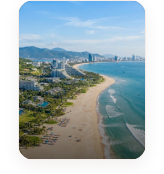
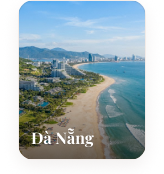
them giao dien

Changed region(s): [[0.1829, 0.7184, 0.5793, 0.8621]]

diff --git a/Quanlyvadatphonghomestay/TrangChu.xaml b/Quanlyvadatphonghomestay/TrangChu.xaml
@@ -4,14 +4,14 @@
              xmlns:local="clr-namespace:Quanlyvadatphonghomestay"
              x:Class="Quanlyvadatphonghomestay.TrangChu"
              NavigationPage.HasNavigationBar="False"
-             BackgroundColor="#BFA992">
+             BackgroundColor="#D6C4B0">
 
     <Grid RowDefinitions="Auto,*,Auto">
 
         <!-- HEADER -->
         <Border
             Grid.Row="0"
-            BackgroundColor="#D6C4B0"
+            BackgroundColor="#BFA992"
             Stroke="#52361E"
             StrokeThickness="1.5"
             Padding="18,12">
@@ -139,7 +139,7 @@
 
                             <Label
                                 Text="Những điểm đến thư giãn tuyệt vời"
-                                FontSize="11"
+                                FontSize="15"
                                 TextColor="#685B4F"/>
                         </VerticalStackLayout>
 
@@ -153,29 +153,35 @@
 
                     <CollectionView
                         ItemsSource="{Binding Locations}"
-                        HeightRequest="120"
-                        SelectionMode="None">
-
+                        HeightRequest="200"
+                        SelectionMode="None"
+                        HorizontalOptions="Fill"
+                   >
                         <CollectionView.ItemsLayout>
                             <LinearItemsLayout
                                 Orientation="Horizontal"
-                                ItemSpacing="12"/>
+                                ItemSpacing="15"/>
                         </CollectionView.ItemsLayout>
 
                         <CollectionView.ItemTemplate>
                             <DataTemplate>
                                 <Border
-                                    WidthRequest="120"
-                                    HeightRequest="120"
-                                    Stroke="#5D4037"
+                                    WidthRequest="150"
+                                    HeightRequest="190"
+                                    Padding="0"
+                                    Stroke="#D6C4B0"
                                     StrokeThickness="1.5"
-                                    StrokeShape="RoundRectangle 16">
+                                    StrokeShape="RoundRectangle 16"
+                                    >
 
                                     <Image
                                         Source="{Binding ImageUrl}"
                                         Aspect="AspectFill"
                                         HorizontalOptions="Fill"
-                                        VerticalOptions="Fill"/>
+                                        VerticalOptions="Fill"
+                                        
+                                     >
+</Image>
                                 </Border>
                             </DataTemplate>
                         </CollectionView.ItemTemplate>
@@ -359,7 +365,7 @@
         <!-- BOTTOM NAV -->
         <Border
             Grid.Row="2"
-            BackgroundColor="#D6C4B0"
+            BackgroundColor="#BFA992"
             Stroke="#52361E"
             StrokeThickness="1.5"
             Padding="10,8,10,18"

diff --git a/Quanlyvadatphonghomestay/Components/HomestayCard.xaml b/Quanlyvadatphonghomestay/Components/HomestayCard.xaml
@@ -1,0 +1,84 @@
+<?xml version="1.0" encoding="utf-8" ?>
+<ContentView xmlns="http://schemas.microsoft.com/dotnet/2021/maui"
+             xmlns:x="http://schemas.microsoft.com/winfx/2009/xaml"
+             x:Class="Quanlyvadatphonghomestay.Components.HomestayCard">
+    <Border
+        WidthRequest="280"
+        BackgroundColor="#FFFDFC"
+        Stroke="#C89F72"
+        StrokeThickness="1"
+        StrokeShape="RoundRectangle 18">
+
+        <VerticalStackLayout>
+
+            <!-- Ảnh -->
+            <Border
+                HeightRequest="170"
+                Padding="0"
+                StrokeThickness="0"
+                StrokeShape="RoundRectangle 18,18,0,0">
+
+                <Image
+                    Source="{Binding ImageUrl}"
+                    Aspect="AspectFill"
+                    HorizontalOptions="Fill"
+                    VerticalOptions="Fill"/>
+            </Border>
+
+
+            <!-- Nội dung -->
+            <VerticalStackLayout
+                Padding="14"
+                Spacing="8">
+
+                <!-- Tên -->
+                <Label
+                    Text="{Binding Name}"
+                    FontSize="17"
+                    FontAttributes="Bold"
+                    TextColor="#3E3028"
+                    LineBreakMode="TailTruncation"/>
+
+                <!-- Địa chỉ -->
+                <Label
+                    Text="{Binding Address}"
+                    FontSize="12"
+                    TextColor="#8A7A70"
+                    LineBreakMode="TailTruncation"/>
+
+                <!-- Mô tả -->
+                <Label
+                    Text="{Binding Description}"
+                    FontSize="11"
+                    TextColor="#8A7A70"
+                    MaxLines="2"
+                    LineBreakMode="TailTruncation"/>
+
+                <BoxView
+                    HeightRequest="1"
+                    Color="#E6D9CC"/>
+
+                <!-- Giá -->
+                <Grid ColumnDefinitions="*,Auto">
+
+                    <Label
+                        Text="{Binding Price, StringFormat='Giá từ {0:N0}₫ / đêm'}"
+                        FontSize="13"
+                        FontAttributes="Bold"
+                        TextColor="#6F452C"/>
+
+                    <Label
+                        Grid.Column="1"
+                        Text="Đặt ngay →"
+                        FontSize="11"
+                        FontAttributes="Bold"
+                        TextColor="#8B5E3C"/>
+
+                </Grid>
+
+            </VerticalStackLayout>
+
+        </VerticalStackLayout>
+
+    </Border>
+</ContentView>

diff --git a/Quanlyvadatphonghomestay/ThongTinCaNhan.xaml b/Quanlyvadatphonghomestay/ThongTinCaNhan.xaml
@@ -1,0 +1,12 @@
+<?xml version="1.0" encoding="utf-8" ?>
+<ContentPage xmlns="http://schemas.microsoft.com/dotnet/2021/maui"
+             xmlns:x="http://schemas.microsoft.com/winfx/2009/xaml"
+             x:Class="Quanlyvadatphonghomestay.ThongTinCaNhan"
+             Title="ThongTinCaNhan">
+    <VerticalStackLayout>
+        <Label 
+            Text="Welcome to .NET MAUI!"
+            VerticalOptions="Center" 
+            HorizontalOptions="Center" />
+    </VerticalStackLayout>
+</ContentPage>

diff --git a/Quanlyvadatphonghomestay/XemTimkiem.xaml b/Quanlyvadatphonghomestay/XemTimkiem.xaml
@@ -1,0 +1,12 @@
+<?xml version="1.0" encoding="utf-8" ?>
+<ContentPage xmlns="http://schemas.microsoft.com/dotnet/2021/maui"
+             xmlns:x="http://schemas.microsoft.com/winfx/2009/xaml"
+             x:Class="Quanlyvadatphonghomestay.XemTimkiem"
+             Title="XemTimkiem">
+    <VerticalStackLayout>
+        <Label 
+            Text="Welcome to .NET MAUI!"
+            VerticalOptions="Center" 
+            HorizontalOptions="Center" />
+    </VerticalStackLayout>
+</ContentPage>

diff --git a/Quanlyvadatphonghomestay/DatPhong.xaml b/Quanlyvadatphonghomestay/DatPhong.xaml
@@ -1,0 +1,12 @@
+<?xml version="1.0" encoding="utf-8" ?>
+<ContentPage xmlns="http://schemas.microsoft.com/dotnet/2021/maui"
+             xmlns:x="http://schemas.microsoft.com/winfx/2009/xaml"
+             x:Class="Quanlyvadatphonghomestay.DatPhong"
+             Title="DatPhong">
+    <VerticalStackLayout>
+        <Label 
+            Text="Welcome to .NET MAUI!"
+            VerticalOptions="Center" 
+            HorizontalOptions="Center" />
+    </VerticalStackLayout>
+</ContentPage>

diff --git a/Quanlyvadatphonghomestay/DanhGia.xaml b/Quanlyvadatphonghomestay/DanhGia.xaml
@@ -1,0 +1,12 @@
+<?xml version="1.0" encoding="utf-8" ?>
+<ContentPage xmlns="http://schemas.microsoft.com/dotnet/2021/maui"
+             xmlns:x="http://schemas.microsoft.com/winfx/2009/xaml"
+             x:Class="Quanlyvadatphonghomestay.DanhGia"
+             Title="DanhGia">
+    <VerticalStackLayout>
+        <Label 
+            Text="Welcome to .NET MAUI!"
+            VerticalOptions="Center" 
+            HorizontalOptions="Center" />
+    </VerticalStackLayout>
+</ContentPage>

diff --git a/Quanlyvadatphonghomestay/DangKy.xaml b/Quanlyvadatphonghomestay/DangKy.xaml
@@ -1,0 +1,12 @@
+<?xml version="1.0" encoding="utf-8" ?>
+<ContentPage xmlns="http://schemas.microsoft.com/dotnet/2021/maui"
+             xmlns:x="http://schemas.microsoft.com/winfx/2009/xaml"
+             x:Class="Quanlyvadatphonghomestay.DangKy"
+             Title="DangKy">
+    <VerticalStackLayout>
+        <Label 
+            Text="Welcome to .NET MAUI!"
+            VerticalOptions="Center" 
+            HorizontalOptions="Center" />
+    </VerticalStackLayout>
+</ContentPage>

diff --git a/Quanlyvadatphonghomestay/TrangChu.xaml.cs b/Quanlyvadatphonghomestay/TrangChu.xaml.cs
@@ -10,7 +10,7 @@ namespace Quanlyvadatphonghomestay
     {
         public ObservableCollection<Homestay> Homestays { get; set; } = new();
 
-        public ObservableCollection<Location> Locations { get; set; } = new();
+        public ObservableCollection<Locations> Locations { get; set; } = new ObservableCollection<Locations>();
 
         private readonly HomestayService _homestayService;
         private readonly Locationsevices _locationsevices;
@@ -61,7 +61,28 @@ namespace Quanlyvadatphonghomestay
             }
         }
 
-        private async Task LoadLocations() { try { var data = await _locationsevices.GetLocationsAsync(); Locations.Clear(); if (data != null) { foreach (var location in data) { Locations.Add(location); } } } catch (Exception ex) { await DisplayAlert("Lỗi Location", ex.Message, "OK"); } }
+        private async Task LoadLocations() { 
+            try 
+            { var data = await _locationsevices.GetLocationsAsync();
+                await DisplayAlert(
+            "Kiểm tra",
+            $"Số location nhận được: {data?.Count ?? 0}",
+            "OK"
+        );
+                Locations.Clear(); 
+                if (data != null) 
+                { 
+                    foreach (Quanlyvadatphonghomestay.Models.Locations locatio in data) 
+                    { 
+                        Locations.Add(locatio); 
+                    } 
+                } 
+            } 
+            catch (Exception ex) 
+            { 
+                await DisplayAlert("Lỗi Location", ex.Message, "OK"); 
+            } 
+        }
 
         private async void SearchEntry_Completed(
             object sender,

diff --git a/Quanlyvadatphonghomestay/Services/Locationsevices.cs b/Quanlyvadatphonghomestay/Services/Locationsevices.cs
@@ -15,7 +15,7 @@ namespace Quanlyvadatphonghomestay.Services
             };
         }
 
-        public async Task<List<Location>> GetLocationsAsync()
+        public async Task<List<Locations>> GetLocationsAsync()
         {
             try
             {
@@ -23,22 +23,27 @@ namespace Quanlyvadatphonghomestay.Services
 
                 if (!response.IsSuccessStatusCode)
                 {
-                    return new List<Location>();
+                    var error = await response.Content.ReadAsStringAsync();
+
+                    throw new Exception(
+                        $"API lỗi: {(int)response.StatusCode}\n{error}"
+                    );
+                    return new List<Locations>();
                 }
 
                 var json = await response.Content.ReadAsStringAsync();
 
-                return JsonSerializer.Deserialize<List<Location>>(
+                return JsonSerializer.Deserialize<List<Locations>>(
                     json,
                     new JsonSerializerOptions
                     {
                         PropertyNameCaseInsensitive = true
-                    }) ?? new List<Location>();
+                    }) ?? new List<Locations>();
             }
             catch (Exception ex)
             {
                 System.Diagnostics.Debug.WriteLine($"Lỗi gọi API Locations: {ex.Message}");
-                return new List<Location>();
+                return new List<Locations>();
             }
         }
     }

diff --git a/homestay.api/Controllers/HomestaysController.cs b/homestay.api/Controllers/HomestaysController.cs
@@ -17,7 +17,7 @@ namespace homestay.api.Controllers
         }
 
         [HttpGet]
-        public async Task<IActionResult> GetHomestays()
+        public async Task<ActionResult<IEnumerable<Homestay>>> GetHomestays()
         {
             var homestays = await _context.Homestays.ToListAsync();
 
@@ -43,17 +43,19 @@ namespace homestay.api.Controllers
         {
             if (string.IsNullOrWhiteSpace(keyword))
             {
-                return await GetHomestays();
+                var homestays = await _context.Homestays.ToListAsync();
+
+                return Ok(homestays);
             }
 
-            var homestays = await _context.Homestays
+            var result = await _context.Homestays
                 .Where(x =>
                     x.Name.Contains(keyword) ||
                     x.Address.Contains(keyword) ||
                     x.Description.Contains(keyword))
                 .ToListAsync();
 
-            return Ok(homestays);
+            return Ok(result);
         }
     }
 }

diff --git a/homestay.api/Controllers/LocationsController.cs b/homestay.api/Controllers/LocationsController.cs
@@ -2,8 +2,11 @@
 using homestay.api.Models;
 using Microsoft.AspNetCore.Mvc;
 using Microsoft.EntityFrameworkCore;
+
 namespace homestay.api.Controllers
 {
+    [Route("api/[controller]")]
+    [ApiController]
     public class LocationsController : ControllerBase
     {
         private readonly AppDbContext _context;
@@ -20,16 +23,17 @@ namespace homestay.api.Controllers
         }
 
         [HttpGet("{id}")]
-        public async Task<ActionResult<Location>> GetLocation(string id)
+        public async Task<ActionResult<Location>> GetLocation(int id)
         {
             var location = await _context.locations
-                .FirstOrDefaultAsync(x => x.ImageUrl == id);
+                .FirstOrDefaultAsync(x => x.Id == id);
 
             if (location == null)
+            {
                 return NotFound();
+            }
 
             return location;
         }
     }
 }
-

diff --git a/Quanlyvadatphonghomestay/Models/Locations.cs b/Quanlyvadatphonghomestay/Models/Locations.cs
@@ -28,7 +28,7 @@ namespace Quanlyvadatphonghomestay.Models
                 if (string.IsNullOrEmpty(ImageUrl))
                     return string.Empty;
 
-                // Nếu đã là link http/https thì giữ nguyên, nếu không thì nối domain API
+               
                 if (ImageUrl.StartsWith("http://") || ImageUrl.StartsWith("https://"))
                     return ImageUrl;
 
